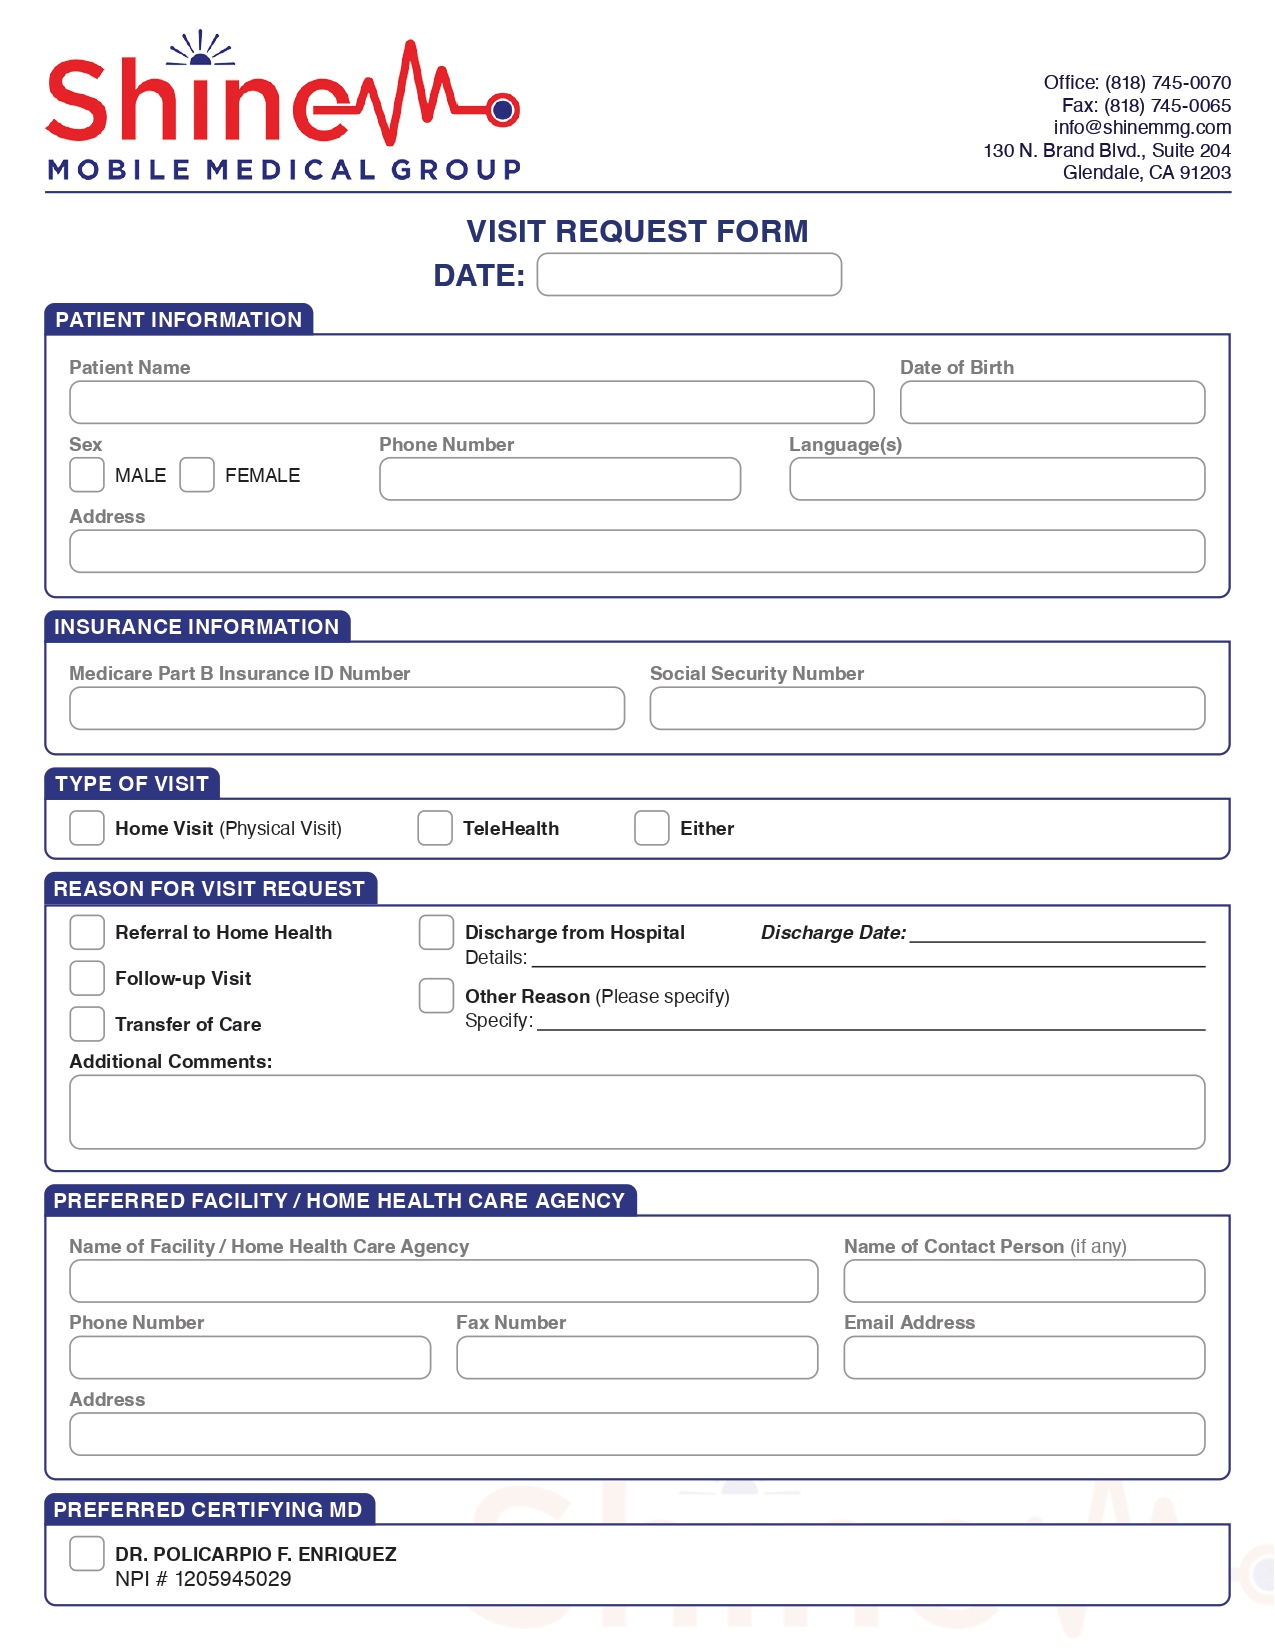
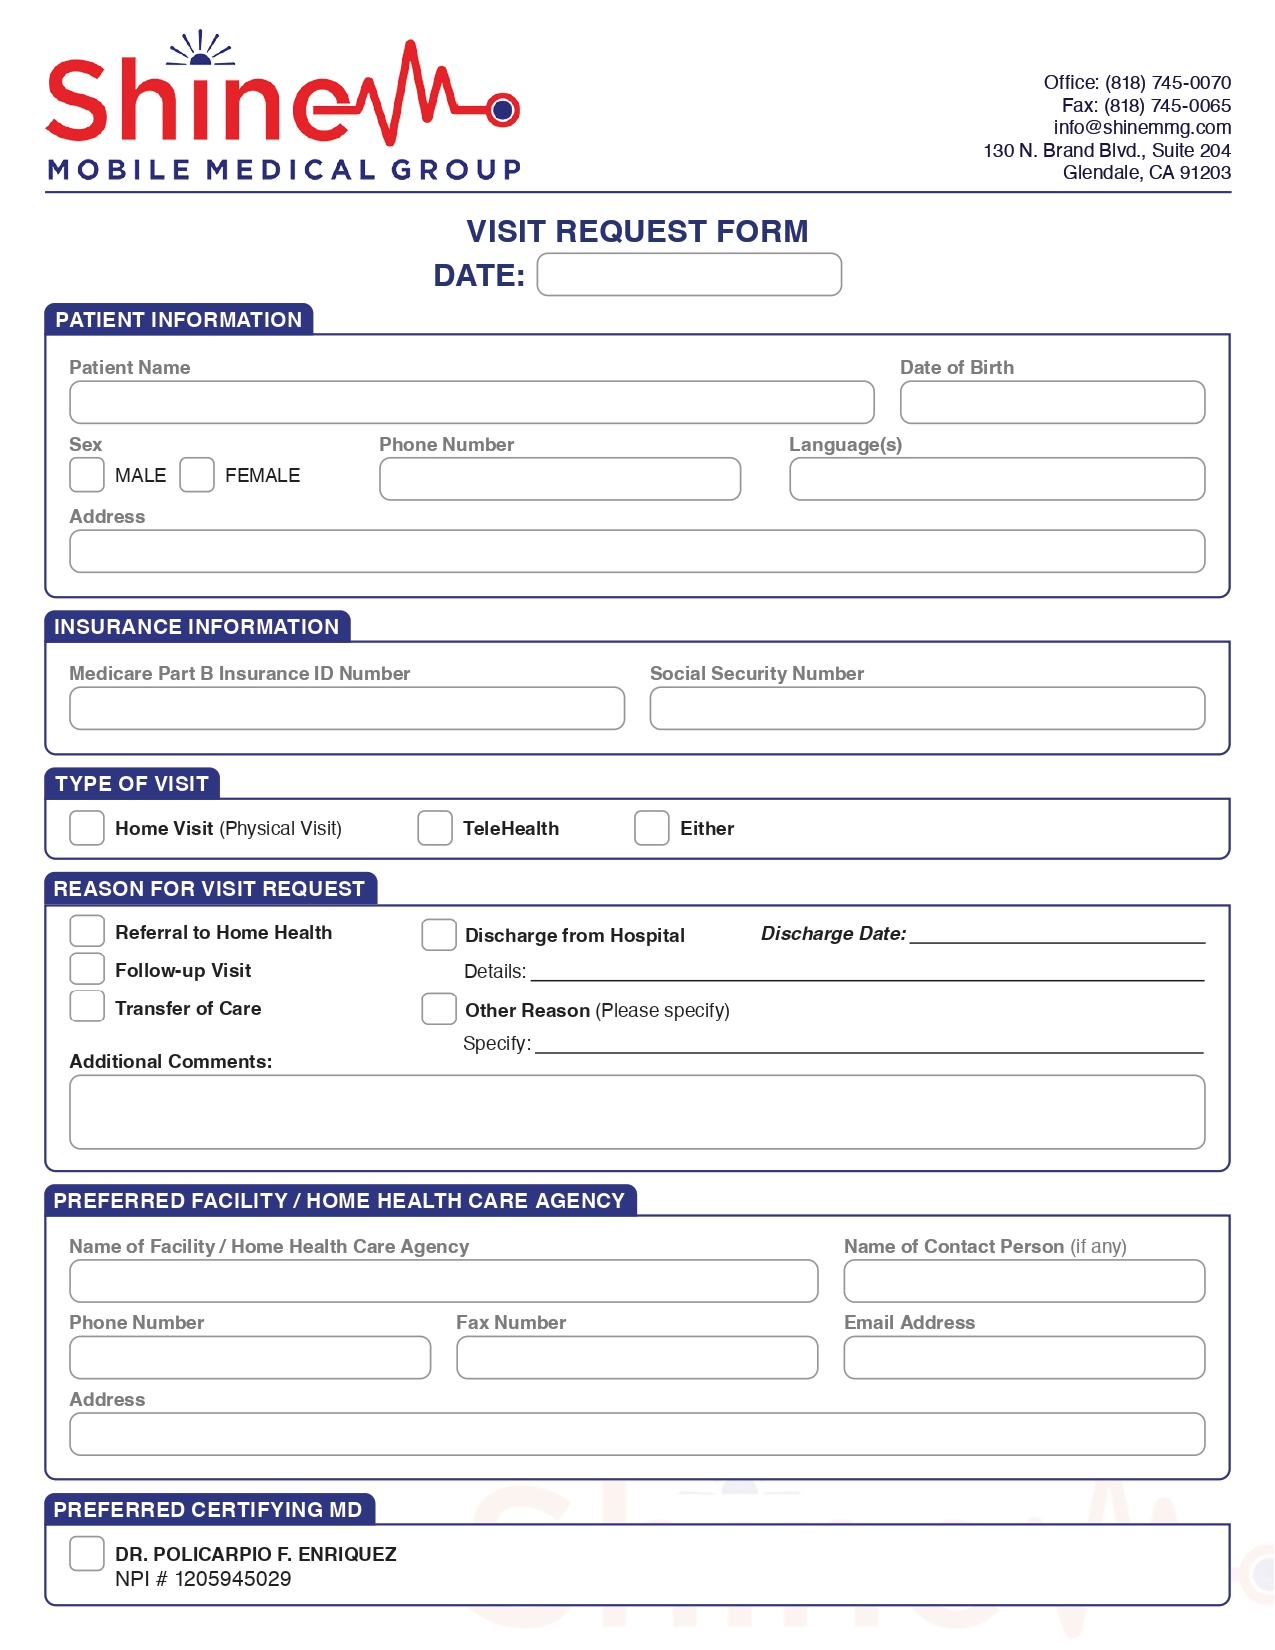
Debug

Changed region(s): [[0.3365, 0.5564, 0.5812, 0.6491], [0.0612, 0.5564, 0.2141, 0.6491], [0.6118, 0.5564, 0.7341, 0.5873]]

diff --git a/application/views/homevisitrequest/pdf.php b/application/views/homevisitrequest/pdf.php
@@ -44,8 +44,8 @@
                </td>
             </tr>
             <tr>
-               <td colspan="2" width="488px"  height="20px">
-                <?=$pi_patient_name?>
+               <td colspan="2" width="489px"  height="20px">
+                <?='<label>  </label>'.$pi_patient_name?>
                </td>
                <td width="173px" height="20px">
                <?=date('m/d/Y', strtotime($pi_dob))?>
@@ -58,15 +58,15 @@
                </td>
             </tr>
             <tr>
-               <td width="65px" height="50px">
+               <td width="66px" height="50px">
                <?php 
                   if($pi_gender == 'male'){
-                    echo '<b>X</b>';
+                    echo '<b> X</b>';
                   }
                   
                   ?>
                </td>
-               <td width="118px" height="50px">
+               <td width="119px" height="50px">
                <?php 
                   if($pi_gender == 'female'){
                     echo '<b>X</b>';
@@ -83,7 +83,7 @@
             </tr>
             <tr>
                <td colspan="3" width="520px" height="18px">
-               <?=$pi_address?>
+               <?='<label>  </label>'.$pi_address?>
                </td>
             </tr>
             <tr>
@@ -107,7 +107,7 @@
                   
                      <?php
                   if($ii_medicare){
-                     echo $ii_medicare;
+                     echo '<label>  </label>'.$ii_medicare;
                   } else {
                      echo '<br>';
                   }
@@ -118,7 +118,7 @@
                   
                   <?php
                   if($ii_ssn){
-                     echo $ii_ssn;
+                     echo '<label>  </label>'.$ii_ssn;
                   } else {
                      echo '<br>';
                   }
@@ -127,7 +127,7 @@
                </td>
             </tr>
             <tr>
-               <td colspan="3" width="520px" height="18px">
+               <td colspan="3" width="520px" height="18px" style="font-size: 1px;">
                </td>
             </tr>
             <tr>
@@ -136,7 +136,7 @@
                   <label></label><br>
                   <?php 
                   if($tov == 'Home Visit (Physical)'){
-                    echo '<b>X</b>';
+                    echo '<b> X</b>';
                   }
                   
                   ?>
@@ -146,7 +146,7 @@
                   <label></label><br>
                   <?php 
                   if($tov == 'Telehealth'){
-                    echo '<b>X</b>';
+                    echo '<b> X</b>';
                   }
                   
                   ?>
@@ -167,24 +167,24 @@
                </td>
             </tr>
             <tr>
-               <td colspan="3" width="520px" height="18px" style="font-size: 14px; ">
+               <td colspan="3" width="520px" height="18px"  style="font-size: 1px;">
                </td>
             </tr>
       
             <tr>
-               <td colspan="" width="200px" height="18px" style="font-size: 14px; ">
+               <td colspan="" width="202px" height="18px" style="font-size: 14px; ">
                <?php 
                   if($rvr_reason_for_visit == 'Referral from Home Health'){
-                    echo '<b>X</b>';
+                    echo '<b> X</b>';
                   }
                   
                   ?>
                
                </td>
-               <td colspan="" width="283px" height="18px" style="font-size: 14px; ">
+               <td colspan="" width="289px" height="18px" style="font-size: 14px; ">
                <?php 
                   if($rvr_reason_for_visit == 'Discharged from Hospital'){
-                    echo '<b>X</b>';
+                    echo '<b> X</b>';
                   }
                   
                   ?>
@@ -201,13 +201,13 @@
                <td colspan="" width="265px" height="15px" style="font-size: 14px; ">
                <?php 
                   if($rvr_reason_for_visit == 'Follow-up Visit'){
-                    echo '<b>X</b>';
+                    echo '<b> X</b>';
                   }
                   
                   ?>
                </td>
                <td colspan="" width="285px" height="15px" valign="top">
-               <?=$rvr_hospital?>
+               <?='<label>  </label>'.$rvr_hospital?>
                </td>
             </tr>
             <tr>
@@ -229,10 +229,10 @@
                </td>
             </tr>
             <tr>
-               <td colspan="" width="265px" height="15px" style="font-size: 14px; ">
+               <td colspan="" width="267px" height="15px" style="font-size: 14px; ">
                </td>
-               <td colspan="" width="285px" height="15px" valign="top" style="font-size: 14px; ">
-               <b><?=$rvr_reason_for_visit_request?></b>
+               <td colspan="" width="285px" height="15px" valign="top" style="font-size: 12px; ">
+               <?='<label>  </label>'.$rvr_reason_for_visit_request?>
                </td>
             </tr>
             <tr>
@@ -243,7 +243,7 @@
                <td colspan="3" height="15px" style="font-size: 11px; ">
                <?php
                 if($rvr_additional_comment){
-                  echo $rvr_additional_comment;
+                  echo '<label>  </label>'.$rvr_additional_comment;
                 } else {
                   echo '<br>';
                 }
@@ -269,8 +269,8 @@
                </td>
             </tr>
             <tr>
-               <td height="15px" width="450px">
-               <?=$pf_name_of_facility?>
+               <td height="15px" width="456px">
+               <?='<label>  </label>'.$pf_name_of_facility?>
                </td>
                <td  height="15px">
                <?=$pf_contact_person?>
@@ -281,10 +281,10 @@
                </td>
             </tr>
             <tr>
-               <td width="230px" height="18px">
-               <?=$pf_phone?>
+               <td width="231px" height="18px">
+               <?='<label>  </label>'.$pf_phone?>
                </td>
-               <td width="220px" height="18px">
+               <td width="225px" height="18px">
                <?=$pf_fax?>
                </td>
                <td width="220px" height="18px">
@@ -297,7 +297,7 @@
             </tr>
             <tr>
                <td colspan="3" height="18px" >
-               <?=$pf_address?>
+               <?='<label>  </label>'.$pf_address?>
                </td>
             </tr>
             <tr>
@@ -309,14 +309,14 @@
                </td>
             </tr>
             <tr>
-               <td colspan="3" height="18px" style="font-size: 10px;" >
+               <td colspan="3" height="18px" style="font-size: 4px;" >
                </td>
             </tr>
             <tr>
                <td width="229px" height="18px" >
                <?php 
-                  if($preferred_smd == '38'){
-                    echo '<b>X</b>';
+                  if($preferred_smd == '60'){
+                    echo '<b> X</b>';
                   }
                   
                   ?>
@@ -324,7 +324,7 @@
                <td width="178px" height="18px" >
                <?php 
                   if($preferred_smd == '53'){
-                    echo '<b>X</b>';
+                    echo '<b> X</b>';
                   }
                   
                   ?>
@@ -332,7 +332,7 @@
                <td width="220px" height="18px" >
                <?php 
                   if($preferred_smd == '33'){
-                    echo '<b>X</b>';
+                    echo '<b> X</b>';
                   }
                   
                   ?>

diff --git a/application/libraries/PDF.php b/application/libraries/PDF.php
@@ -79,7 +79,7 @@ class PDF {
 		$pdf->SetDefaultMonospacedFont(PDF_FONT_MONOSPACED);
 
 		// set margins
-		$pdf->SetMargins(0, 40, 0, 0);
+		$pdf->SetMargins(0, 46, 0, 0);
 		$pdf->SetHeaderMargin(0);
 		$pdf->SetFooterMargin(0);
 
